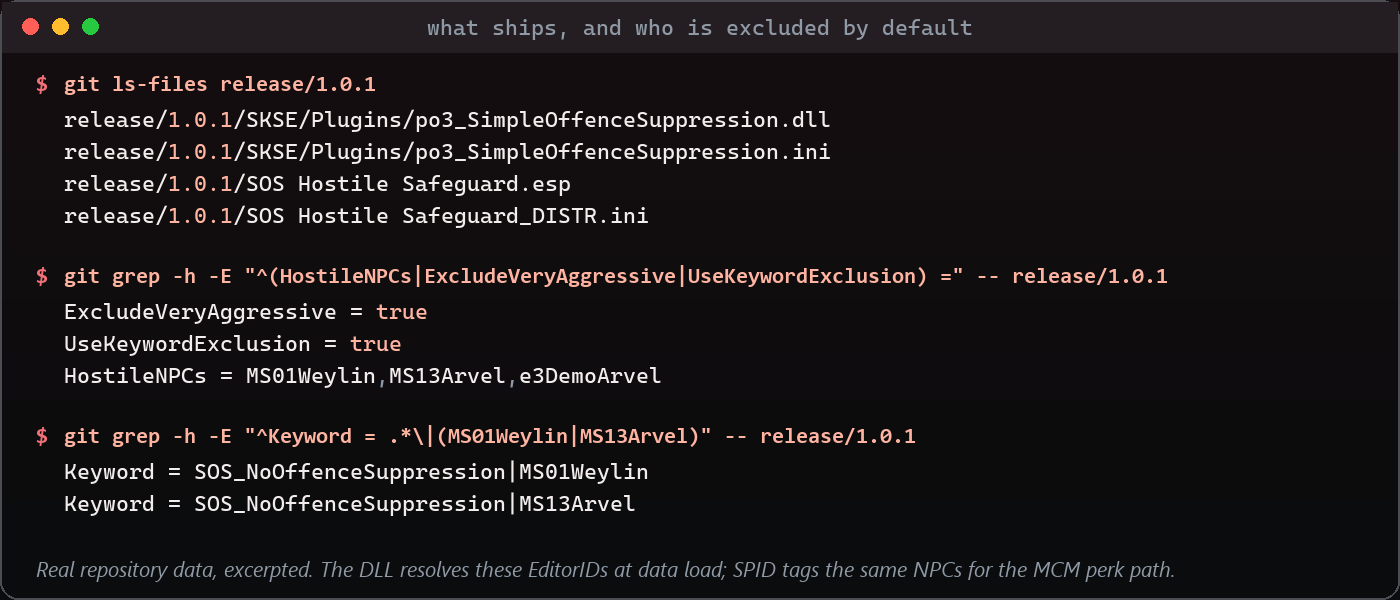
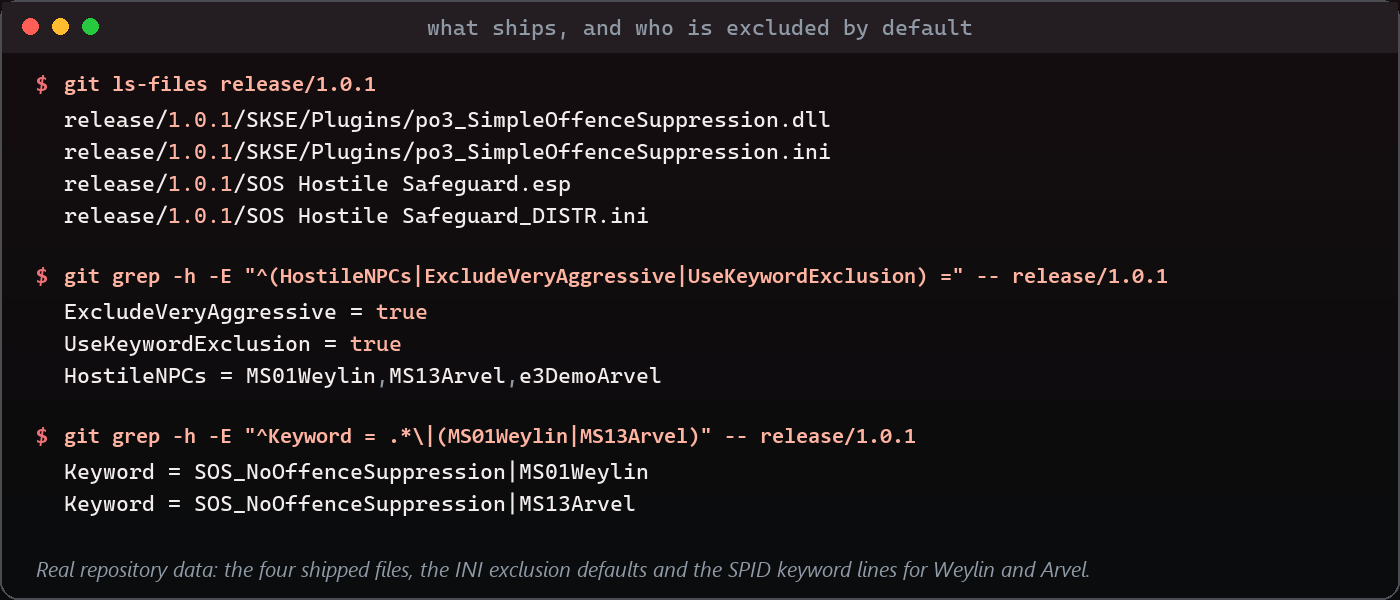
docs: exact shot captions, unresolved-EditorID log note, current credit name
Captions now state only what each shot shows (version resource 2.3.1.0.0;
shipped files and defaults). README points at the log lines the DLL writes
for EditorIDs it cannot resolve. Credits row reads SenjuWoo; LICENSE
unchanged.

Changed region(s): [[0.1536, 0.93, 0.8293, 0.96]]

diff --git a/README.md b/README.md
@@ -110,6 +110,10 @@ Restart the game after INI changes. Without SPID, the DLL's faction and NPC Edit
 apply to offence reactions; MCM damage blocking may still apply to untagged uniques on the perk
 path.
 
+The DLL resolves both lists by EditorID at data load and logs each one it cannot find
+(`Hostile faction EditorID not found: ...`, `Hostile NPC EditorID not found: ...`) in
+`po3_SimpleOffenceSuppression.log`; check that log after installing or editing the lists.
+
 ## Build
 
 Tools and the longer recipe: [`docs/BUILD.md`](docs/BUILD.md).
@@ -187,7 +191,7 @@ source-publish/
 | **wankingSkeever** (et al.) | SOS MCM – Block Friendly Fire (perk behaviour patched, not rehosted wholesale) |
 | **Ryan / CommonLibSSE lineage** | Library used by the upstream plugin family |
 | **meh321** | Address Library |
-| **ShugokiFable** | Hostile Safeguard fork (exclusions, unique NPC list, MCM perk patch, packaging) |
+| **SenjuWoo** | Hostile Safeguard fork (exclusions, unique NPC list, MCM perk patch, packaging) |
 
 ## Permissions
 

diff --git a/CHANGELOG.md b/CHANGELOG.md
@@ -9,7 +9,8 @@ Documentation only; the shipped DLL, ESP and INIs are unchanged (still 1.0.1 / D
 - README rebuilt around a cover image and two real terminal shots (a local AE build, the shipped `release/1.0.1` files and default exclusions), with a flow diagram of the exclusion check.
 - `docs/BUILD.md` now pins CommonLibSSE to `86eb2b8` and clones CommonLibVR exactly as CI does (unpinned `dev` no longer has `include/REL`), uses the `buildae` preset folder, notes that `COPY_BUILD` defaults to ON, and explains the vcpkg toolset mismatch on machines with several MSVC versions.
 - The runtime is stated as the AE runtime (1.6.x, Address Library); the DLL is not built for 1.5.97.
-- `GITHUB.md` names the current account.
+- `GITHUB.md` names the current account, and the README credits row reads `SenjuWoo` (the account's current name); LICENSE is unchanged.
+- README notes where the DLL logs EditorIDs it could not resolve.
 
 ## [1.0.1] — 2026-08-05
 
